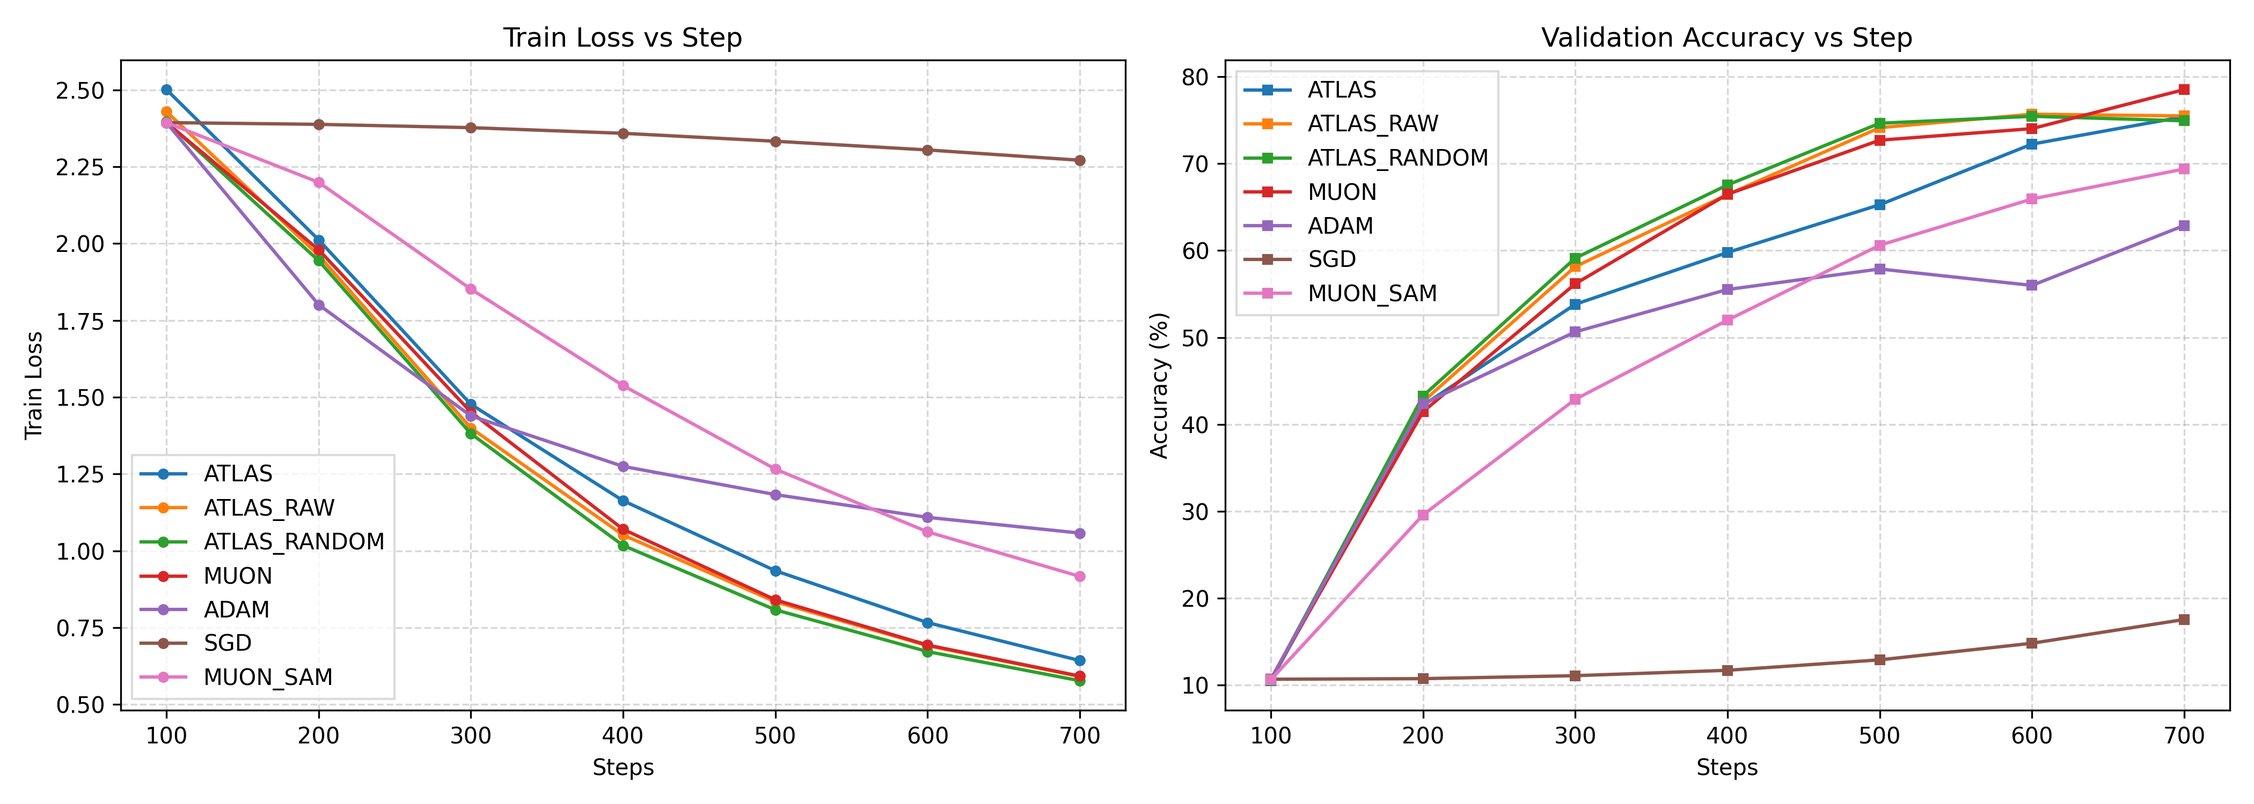
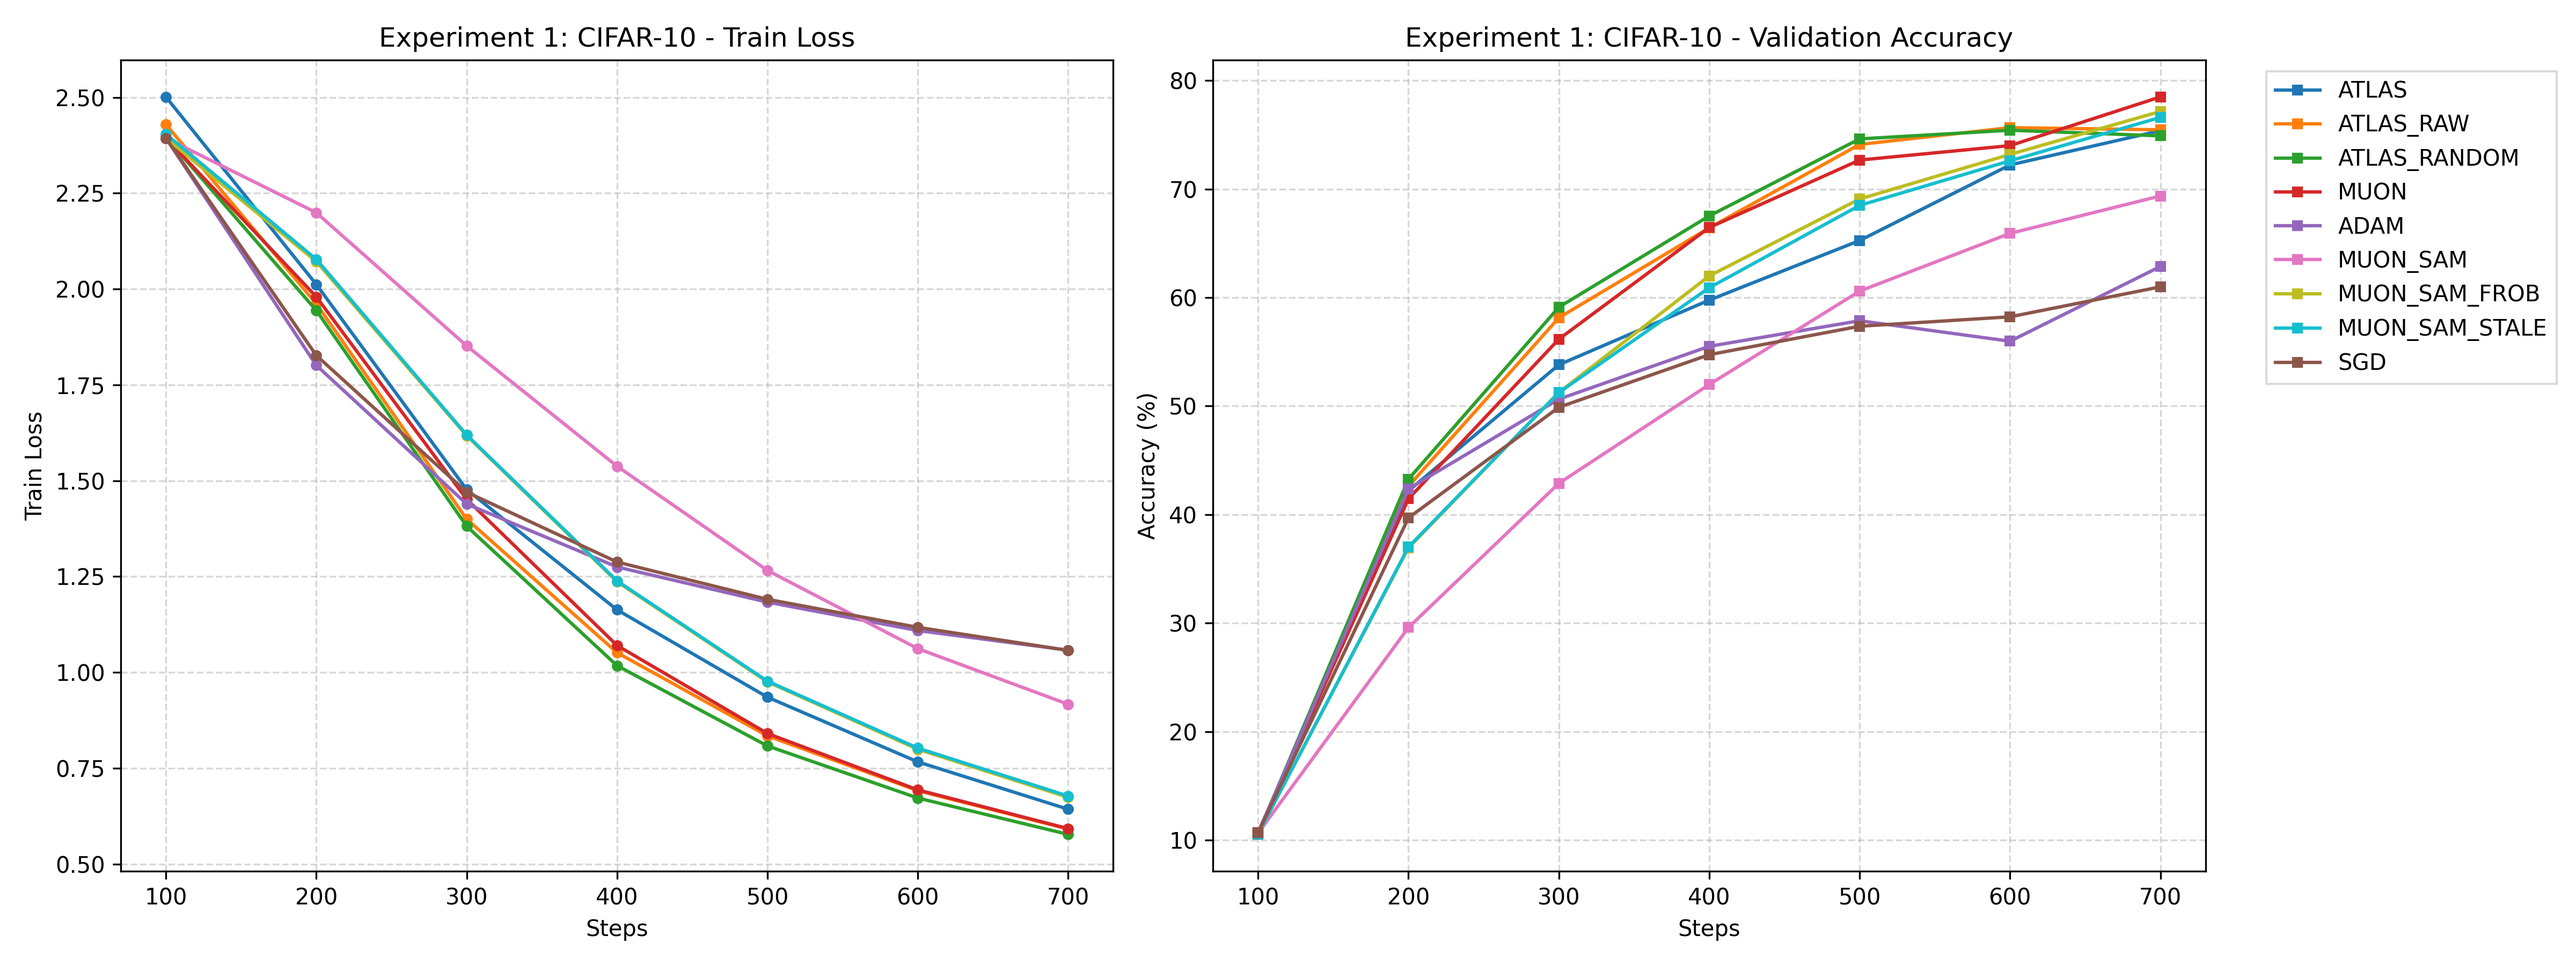
muon sam stale and frobe

diff --git a/helpers/process_logs.py b/helpers/process_logs.py
@@ -1,0 +1,202 @@
+import pandas as pd
+import numpy as np
+import matplotlib.pyplot as plt
+import os
+import re
+
+def parse_log_text(log_path, steps_per_epoch=100):
+    if not os.path.exists(log_path): return pd.DataFrame()
+    data = []
+    with open(log_path, 'r', encoding='utf-8') as f:
+        for line in f:
+            if 'Epoch' in line and '| Train Loss:' in line:
+                try:
+                    parts = line.split(']')
+                    opt_raw = parts[0].replace('[', '').strip().lower()
+                    
+                    rest = parts[1]
+                    epoch_str = rest.split('Epoch')[1].split('/')[0].strip()
+                    epoch = int(epoch_str)
+                    
+                    t_loss = float(re.search(r'Train Loss:\s*([\d.]+)', rest).group(1))
+                    t_acc = float(re.search(r'Train Acc:\s*([\d.]+)', rest).group(1))
+                    v_loss = float(re.search(r'Val Loss:\s*([\d.]+)', rest).group(1))
+                    v_acc = float(re.search(r'Val Acc:\s*([\d.]+)', rest).group(1))
+                    
+                    step = epoch * steps_per_epoch
+                    
+                    data.append({
+                        'optimizer': opt_raw,
+                        'epoch': epoch,
+                        'step': step,
+                        'train_loss': t_loss,
+                        'train_accuracy': t_acc,
+                        'val_loss': v_loss,
+                        'val_accuracy': v_acc
+                    })
+                except Exception as e:
+                    pass
+    return pd.DataFrame(data)
+
+def combine_and_save_csv(base_csv_path, new_dfs):
+    if not os.path.exists(base_csv_path): return
+    base_df = pd.read_csv(base_csv_path)
+    
+    for new_df in new_dfs:
+        if new_df.empty: continue
+        optimizers_to_replace = new_df['optimizer'].unique()
+        base_df = base_df[~base_df['optimizer'].isin(optimizers_to_replace)]
+        base_df = pd.concat([base_df, new_df], ignore_index=True)
+        
+    base_df.to_csv(base_csv_path, index=False)
+    return base_df
+
+def plot_metrics(csv_path, plot_path_prefix, title):
+    if not os.path.exists(csv_path): return
+    df = pd.read_csv(csv_path)
+    
+    colors = {
+        'atlas': 'tab:blue', 
+        'atlas_raw': 'tab:orange', 
+        'atlas_random': 'tab:green', 
+        'muon': 'tab:red', 
+        'adam': 'tab:purple', 
+        'sgd': 'tab:brown', 
+        'muon_sam': 'tab:pink',
+        'muon_sam_frob': 'tab:olive',
+        'muon_sam_stale': 'tab:cyan'
+    }
+    
+    # 1. PPL Plot (if not cifar)
+    if 'cifar' not in plot_path_prefix.lower():
+        plt.figure(figsize=(10, 6))
+        for opt in df['optimizer'].unique():
+            opt_df = df[df['optimizer'] == opt]
+            color = colors.get(opt.lower(), 'black')
+            plt.plot(opt_df['step'], np.exp(opt_df['val_loss']), label=opt.upper(), color=color, linewidth=1.5, marker='o', markersize=4)
+        
+        plt.title(f'{title} - Validation Perplexity')
+        plt.xlabel('Steps')
+        plt.ylabel('Validation Perplexity (Log Scale)')
+        plt.yscale('log')
+        plt.grid(True, which='both', linestyle='--', alpha=0.5)
+        plt.legend(frameon=True, fancybox=False, edgecolor='lightgray', bbox_to_anchor=(1.05, 1), loc='upper left')
+        plt.tight_layout()
+        plt.savefig(f'{plot_path_prefix}_perplexity_plot.png', dpi=300)
+        plt.close()
+    
+    # 2. Loss & Acc Plot
+    fig, ax = plt.subplots(1, 2, figsize=(16, 6))
+    for opt in df['optimizer'].unique():
+        opt_df = df[df['optimizer'] == opt]
+        color = colors.get(opt.lower(), 'black')
+        ax[0].plot(opt_df['step'], opt_df['train_loss'], label=opt.upper(), color=color, linewidth=1.5, marker='o', markersize=4)
+        ax[1].plot(opt_df['step'], opt_df['val_accuracy'], label=opt.upper(), color=color, linewidth=1.5, marker='s', markersize=4)
+    
+    ax[0].set_title(f'{title} - Train Loss')
+    ax[0].set_xlabel('Steps')
+    ax[0].set_ylabel('Train Loss')
+    ax[0].grid(True, linestyle='--', alpha=0.5)
+    
+    ax[1].set_title(f'{title} - Validation Accuracy')
+    ax[1].set_xlabel('Steps')
+    ax[1].set_ylabel('Accuracy (%)')
+    ax[1].grid(True, linestyle='--', alpha=0.5)
+    ax[1].legend(frameon=True, fancybox=False, edgecolor='lightgray', bbox_to_anchor=(1.05, 1), loc='upper left')
+    
+    plt.tight_layout()
+    plt.savefig(f'{plot_path_prefix}_plot.png', dpi=300)
+    plt.close()
+
+def generate_markdown_tables():
+    runs = [
+        ('Experiment 1: CIFAR-10 Image Classification', 'final_logs/run1_cifar10_logs.csv'),
+        ('Experiment 2: nanoGPT Continual Pre-Training', 'final_logs/run2_nanogpt_logs.csv'),
+        ('Experiment 3: Pythia-70M Continual Pre-Training', 'final_logs/run3_pythia_logs.csv')
+    ]
+    
+    md_loss = "### Final Loss and Accuracy Results\n\n"
+    md_ppl = "### Language Modeling Validation Perplexity Results\n\n"
+    
+    for title, csv_path in runs:
+        if not os.path.exists(csv_path): continue
+        df = pd.read_csv(csv_path)
+        
+        md_loss += f"#### {title}\n"
+        md_loss += "| Optimizer | Final Train Loss | Final Train Acc | Final Val Loss | Final Val Acc |\n"
+        md_loss += "| :--- | :--- | :--- | :--- | :--- |\n"
+        
+        if 'cifar' not in title.lower():
+            md_ppl += f"#### {title}\n"
+            md_ppl += "| Optimizer | Final Validation Perplexity |\n"
+            md_ppl += "| :--- | :--- |\n"
+            
+        opts_order = ['atlas_random', 'atlas_raw', 'atlas', 'adam', 'muon', 'muon_sam', 'muon_sam_frob', 'muon_sam_stale', 'sgd']
+        for opt in opts_order:
+            opt_df = df[df['optimizer'].str.lower() == opt]
+            if opt_df.empty: continue
+            
+            final_row = opt_df.iloc[-1]
+            t_loss = f"{final_row['train_loss']:.4f}"
+            t_acc = f"{final_row['train_accuracy']:.2f}%"
+            v_loss = f"{final_row['val_loss']:.4f}"
+            v_acc = f"{final_row['val_accuracy']:.2f}%"
+            
+            display_name = opt.upper()
+            if display_name == 'MUON_SAM': display_name = 'Muon-SAM'
+            elif display_name == 'MUON_SAM_FROB': display_name = 'Muon-SAM (Frob)'
+            elif display_name == 'MUON_SAM_STALE': display_name = 'Muon-SAM (Stale)'
+            elif display_name == 'ADAM': display_name = 'AdamW'
+            elif display_name == 'SGD': display_name = 'SGD'
+            elif display_name == 'MUON': display_name = 'Muon'
+            elif display_name == 'ATLAS': display_name = 'Atlas'
+            elif display_name == 'ATLAS_RAW': display_name = 'Atlas Raw'
+            elif display_name == 'ATLAS_RANDOM': display_name = 'Atlas Random'
+            
+            md_loss += f"| **{display_name}** | {t_loss} | {t_acc} | {v_loss} | {v_acc} |\n"
+            
+            if 'cifar' not in title.lower():
+                ppl = f"{np.exp(final_row['val_loss']):.2f}"
+                md_ppl += f"| **{display_name}** | {ppl} |\n"
+                
+        md_loss += "\n"
+        if 'cifar' not in title.lower():
+            md_ppl += "\n"
+            
+    md_ppl += "*(Note: CIFAR-10 is an image classification task evaluated on Cross-Entropy Loss and Accuracy, and therefore does not have a Perplexity metric).*\n\n"
+    
+    return md_loss, md_ppl
+
+def update_readme():
+    md_loss, md_ppl = generate_markdown_tables()
+    
+    with open('README.md', 'r', encoding='utf-8') as f:
+        content = f.read()
+        
+    content = re.sub(r'### Final Loss and Accuracy Results.*?(?=### Language Modeling Validation Perplexity Results)', md_loss, content, flags=re.DOTALL)
+    content = re.sub(r'### Language Modeling Validation Perplexity Results.*?(?=## 6\. Heavy-Tailed)', md_ppl, content, flags=re.DOTALL)
+    
+    with open('README.md', 'w', encoding='utf-8') as f:
+        f.write(content)
+
+if __name__ == '__main__':
+    # 1. CIFAR10
+    df_frob_stale_1 = parse_log_text('run1_frob_stale_cifar10.log', 100)
+    df_sgd_1 = parse_log_text('final_logs/run1_sgd_new.log', 100)
+    combine_and_save_csv('final_logs/run1_cifar10_logs.csv', [df_frob_stale_1, df_sgd_1])
+    plot_metrics('final_logs/run1_cifar10_logs.csv', 'final_logs/run1_cifar10', 'Experiment 1: CIFAR-10')
+
+    # 2. NanoGPT
+    df_frob_stale_2 = parse_log_text('run2_frob_stale_nanogpt.log', 100)
+    df_sgd_2 = parse_log_text('final_logs/run2_sgd_new.log', 100)
+    combine_and_save_csv('final_logs/run2_nanogpt_logs.csv', [df_frob_stale_2, df_sgd_2])
+    plot_metrics('final_logs/run2_nanogpt_logs.csv', 'final_logs/run2_nanogpt', 'Experiment 2: NanoGPT')
+
+    # 3. Pythia
+    df_frob_stale_3 = parse_log_text('run3_frob_stale_pythia.log', 100)
+    df_sgd_3 = parse_log_text('final_logs/run3_sgd_new.log', 100)
+    combine_and_save_csv('final_logs/run3_pythia_logs.csv', [df_frob_stale_3, df_sgd_3])
+    plot_metrics('final_logs/run3_pythia_logs.csv', 'final_logs/run3_pythia', 'Experiment 3: Pythia')
+
+    update_readme()
+    print("Done processing logs, generating plots, and updating README!")

diff --git a/README.md b/README.md
@@ -187,7 +187,9 @@ Output: `final_logs/<name>_logs.csv` (with `step` column) and `final_logs/<name>
 | **AdamW** | 1.0577 | 63.27% | 1.0548 | 62.87% |
 | **Muon** | 0.5922 | 80.16% | 0.6242 | 78.50% |
 | **Muon-SAM** | 0.9166 | 34.67% | 0.8812 | 69.37% |
-| **SGD** | 2.2712 | 16.02% | 2.2474 | 17.56% |
+| **Muon-SAM (Frob)** | 0.6736 | 38.76% | 0.6606 | 77.16% |
+| **Muon-SAM (Stale)** | 0.6771 | 38.64% | 0.6746 | 76.61% |
+| **SGD** | 1.0571 | 62.96% | 1.1096 | 60.99% |
 
 #### Experiment 2: nanoGPT Continual Pre-Training
 | Optimizer | Final Train Loss | Final Train Acc | Final Val Loss | Final Val Acc |
@@ -198,7 +200,9 @@ Output: `final_logs/<name>_logs.csv` (with `step` column) and `final_logs/<name>
 | **AdamW** | 4.5826 | 27.24% | 4.4446 | 28.50% |
 | **Muon** | 3.9330 | 32.28% | 3.7586 | 34.04% |
 | **Muon-SAM** | 4.7394 | 24.12% | 4.5769 | 25.40% |
-| **SGD** | 8.2731 | 9.10% | 8.2703 | 9.26% |
+| **Muon-SAM (Frob)** | 4.4538 | 27.22% | 4.2678 | 28.89% |
+| **Muon-SAM (Stale)** | 4.4341 | 27.38% | 4.2497 | 29.02% |
+| **SGD** | 7.3141 | 13.21% | 7.2956 | 13.59% |
 
 #### Experiment 3: Pythia-70M Continual Pre-Training
 | Optimizer | Final Train Loss | Final Train Acc | Final Val Loss | Final Val Acc |
@@ -209,7 +213,9 @@ Output: `final_logs/<name>_logs.csv` (with `step` column) and `final_logs/<name>
 | **AdamW** | 4.9518 | 23.79% | 4.9156 | 23.91% |
 | **Muon** | 4.0690 | 31.48% | 4.0169 | 31.87% |
 | **Muon-SAM** | 4.8280 | 23.48% | 4.7622 | 23.97% |
-| **SGD** | 8.1014 | 6.38% | 8.0589 | 6.87% |
+| **Muon-SAM (Frob)** | 4.4951 | 27.45% | 4.4271 | 27.94% |
+| **Muon-SAM (Stale)** | 4.4722 | 27.73% | 4.4056 | 28.16% |
+| **SGD** | 7.4629 | 11.42% | 7.4197 | 11.54% |
 
 ### Language Modeling Validation Perplexity Results
 
@@ -222,7 +228,9 @@ Output: `final_logs/<name>_logs.csv` (with `step` column) and `final_logs/<name>
 | **AdamW** | 85.17 |
 | **Muon** | 42.89 |
 | **Muon-SAM** | 97.21 |
-| **SGD** | 3906.12 |
+| **Muon-SAM (Frob)** | 71.36 |
+| **Muon-SAM (Stale)** | 70.08 |
+| **SGD** | 1473.80 |
 
 #### Experiment 3: Pythia-70M Continual Pre-Training
 | Optimizer | Final Validation Perplexity |
@@ -233,7 +241,9 @@ Output: `final_logs/<name>_logs.csv` (with `step` column) and `final_logs/<name>
 | **AdamW** | 136.40 |
 | **Muon** | 55.53 |
 | **Muon-SAM** | 117.00 |
-| **SGD** | 3161.81 |
+| **Muon-SAM (Frob)** | 83.69 |
+| **Muon-SAM (Stale)** | 81.91 |
+| **SGD** | 1668.53 |
 
 *(Note: CIFAR-10 is an image classification task evaluated on Cross-Entropy Loss and Accuracy, and therefore does not have a Perplexity metric).*
 
